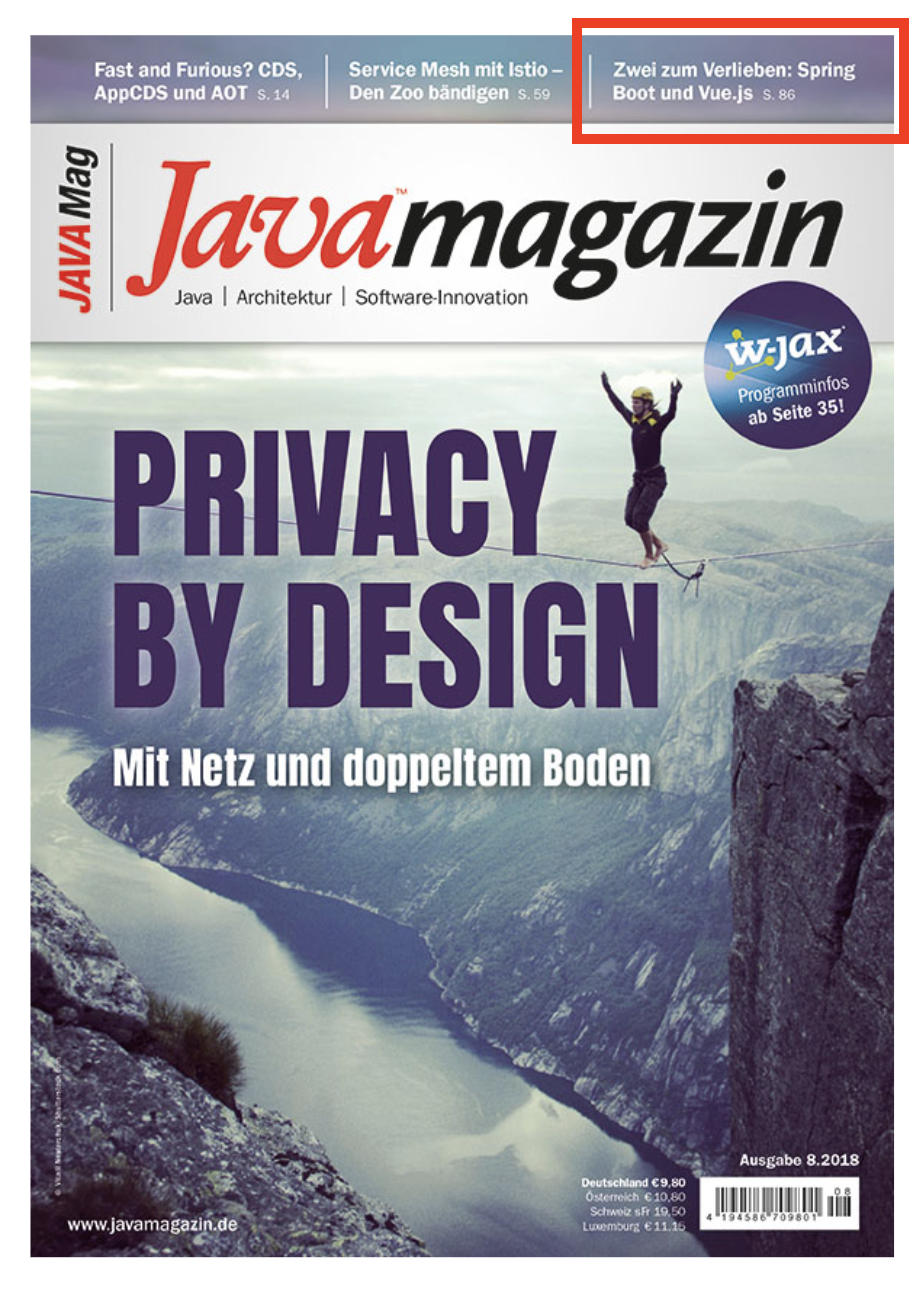
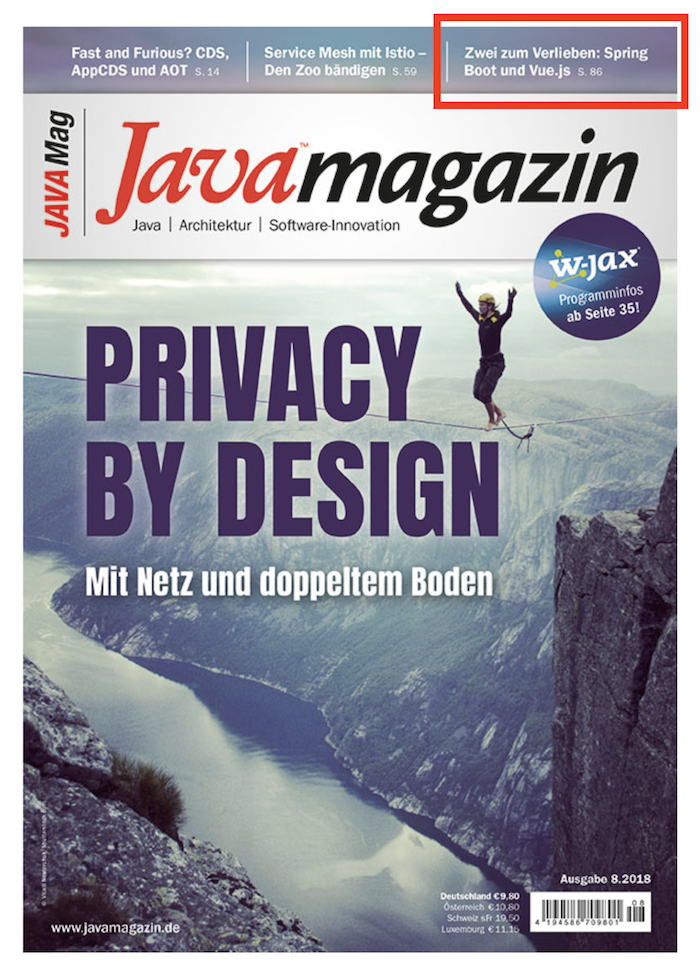
added correct JavaMag link. Also reduced mag-image-size. Added new celebration mention of Ferienpass

Changed region(s): [[0.63, 0.0, 0.99, 0.1226]]

diff --git a/index.md b/index.md
@@ -68,6 +68,8 @@ Here´s also recording of a current talk about some DevOps stuff:
 
 2018-07: Article about "Zwei zum Verlieben - Spring Boot und Vue.js im eigenen Projekt anwenden" published in the [Java Magazin 08.2018](https://entwickler.de/leseproben/projektarbeit-spring-boot-und-vue-js-579847897.html)
 
+> Author of the Month: [Java Magazin 08.2018](https://jaxenter.de/ausgaben/java-magazin-8-18)
+
 ![java-magazin-8.2018]({{ site.url }}/assets/java-magazin-8.2018.png)
 
 
@@ -115,7 +117,7 @@ Here´s also recording of a current talk about some DevOps stuff:
 
 2017-10 - 2018-04: Fascilitating a project seminar in *"modern software engineering"* @ [Bauhaus-Universität Weimar](https://www.uni-weimar.de/de/medien/professuren/intelligente-softwaresysteme/): Goal is to digitize a registration process for the kids of city Weimar / Thuringia, Germany for school holidays activities as a charity project
 
-> Mentions: In the local press [Thüringer Allgemeine 2018-01-17](http://www.thueringer-allgemeine.de/web/zgt/suche/detail/-/specific/Lange-Schlange-im-Kinderbuero-war-der-Ausloeser-168601916) [Thüringiscge Landeszeitung 2018-01-17](http://weimar.tlz.de/web/weimar/startseite/detail/-/specific/Lange-Schlange-im-Kinderbuero-war-der-Ausloeser-168601916) [BAUHAUS.JOURNAL ONLINE 2018-01-16](https://www.uni-weimar.de/de/universitaet/aktuell/bauhausjournal-online/titel/projektpraesentation-medieninformatik-studierende-entwickeln-online-anmeldung-fuer-weimarer-ferienpas-1/) [Focus Online](https://www.focus.de/regional/thueringen/bauhaus-universitaet-weimar-meldung-vom-16-01-2018_id_8309726.html) [codecentric.de](https://www.codecentric.de/2018/01/17/schoenere-ferien-dank-digitalisierung/)
+> Mentions: In the local press [Thüringer Allgemeine 2018-01-17](http://www.thueringer-allgemeine.de/web/zgt/suche/detail/-/specific/Lange-Schlange-im-Kinderbuero-war-der-Ausloeser-168601916) [Thüringiscge Landeszeitung 2018-01-17](http://weimar.tlz.de/web/weimar/startseite/detail/-/specific/Lange-Schlange-im-Kinderbuero-war-der-Ausloeser-168601916) [BAUHAUS.JOURNAL ONLINE 2018-01-16](https://www.uni-weimar.de/de/universitaet/aktuell/bauhausjournal-online/titel/projektpraesentation-medieninformatik-studierende-entwickeln-online-anmeldung-fuer-weimarer-ferienpas-1/) [Focus Online](https://www.focus.de/regional/thueringen/bauhaus-universitaet-weimar-meldung-vom-16-01-2018_id_8309726.html) [codecentric.de](https://www.codecentric.de/2018/01/17/schoenere-ferien-dank-digitalisierung/) [final celebration, Focus Online](https://www.focus.de/regional/thueringen/stadt-weimar-dank-an-die-foerderer-des-ferienpass-weimar-2018_id_9230231.html)
 
 2017-01: Giving a lecture about *"Real life software engineering"* @ [Bauhaus-Universität Weimar](https://www.uni-weimar.de/de/medien/professuren/intelligente-softwaresysteme/)
 
